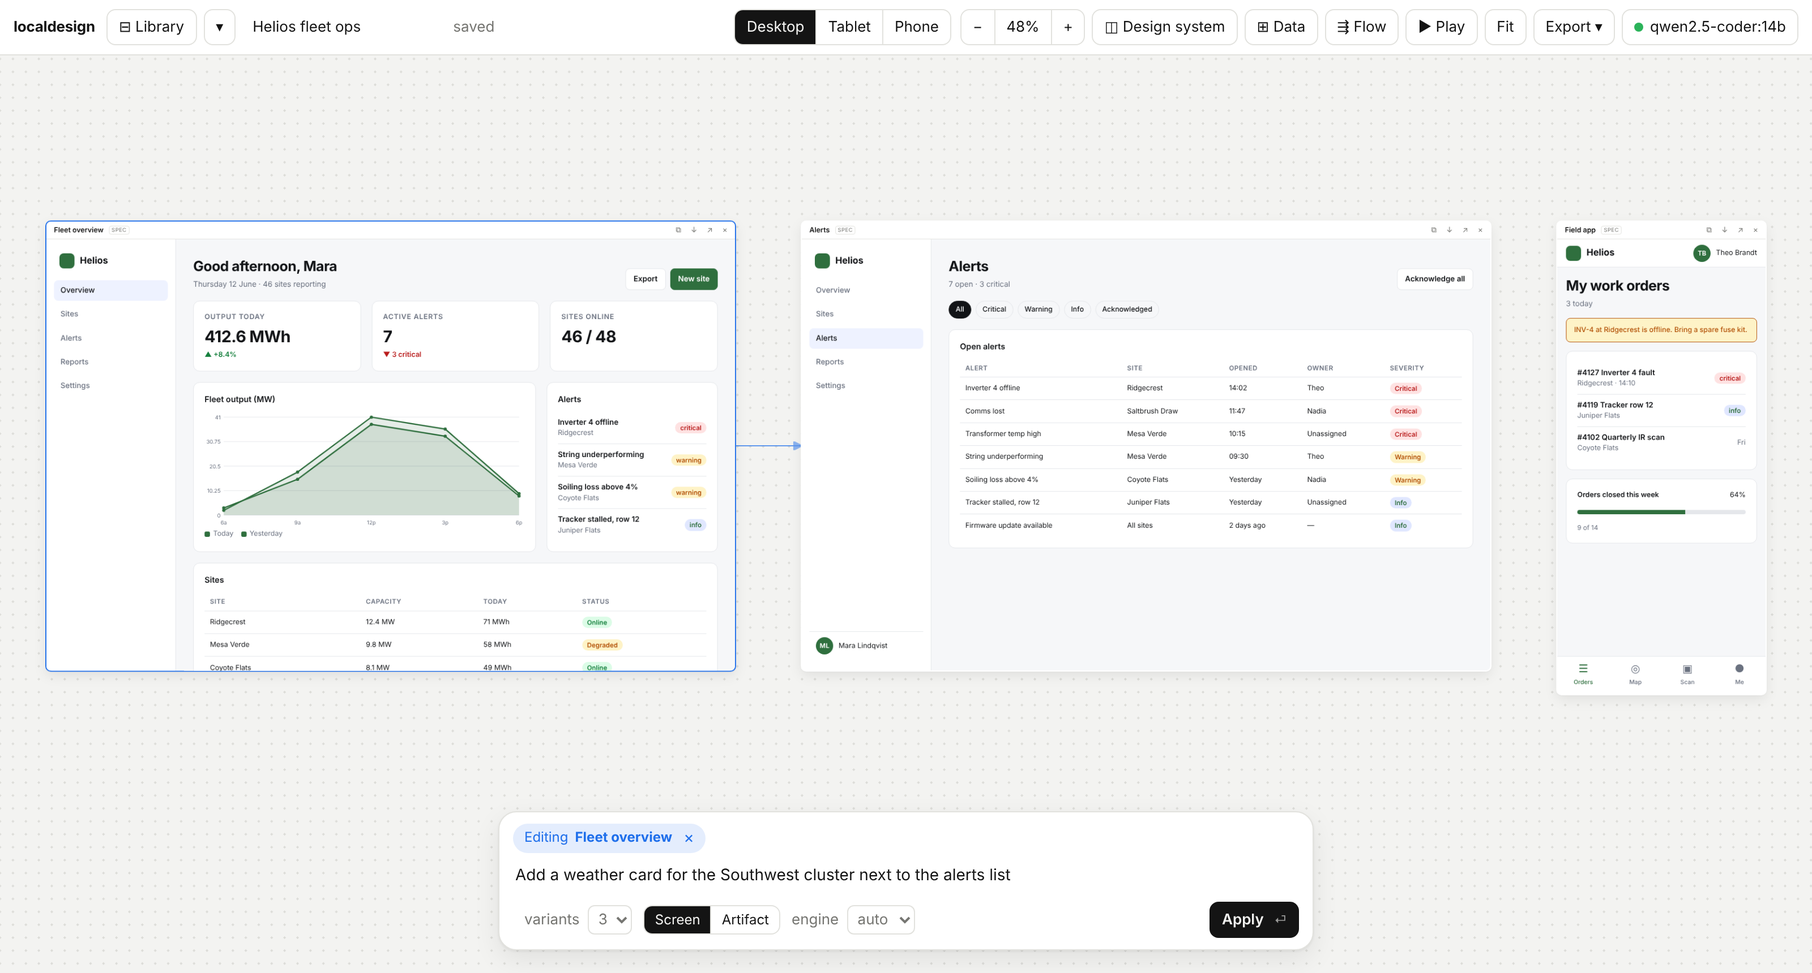
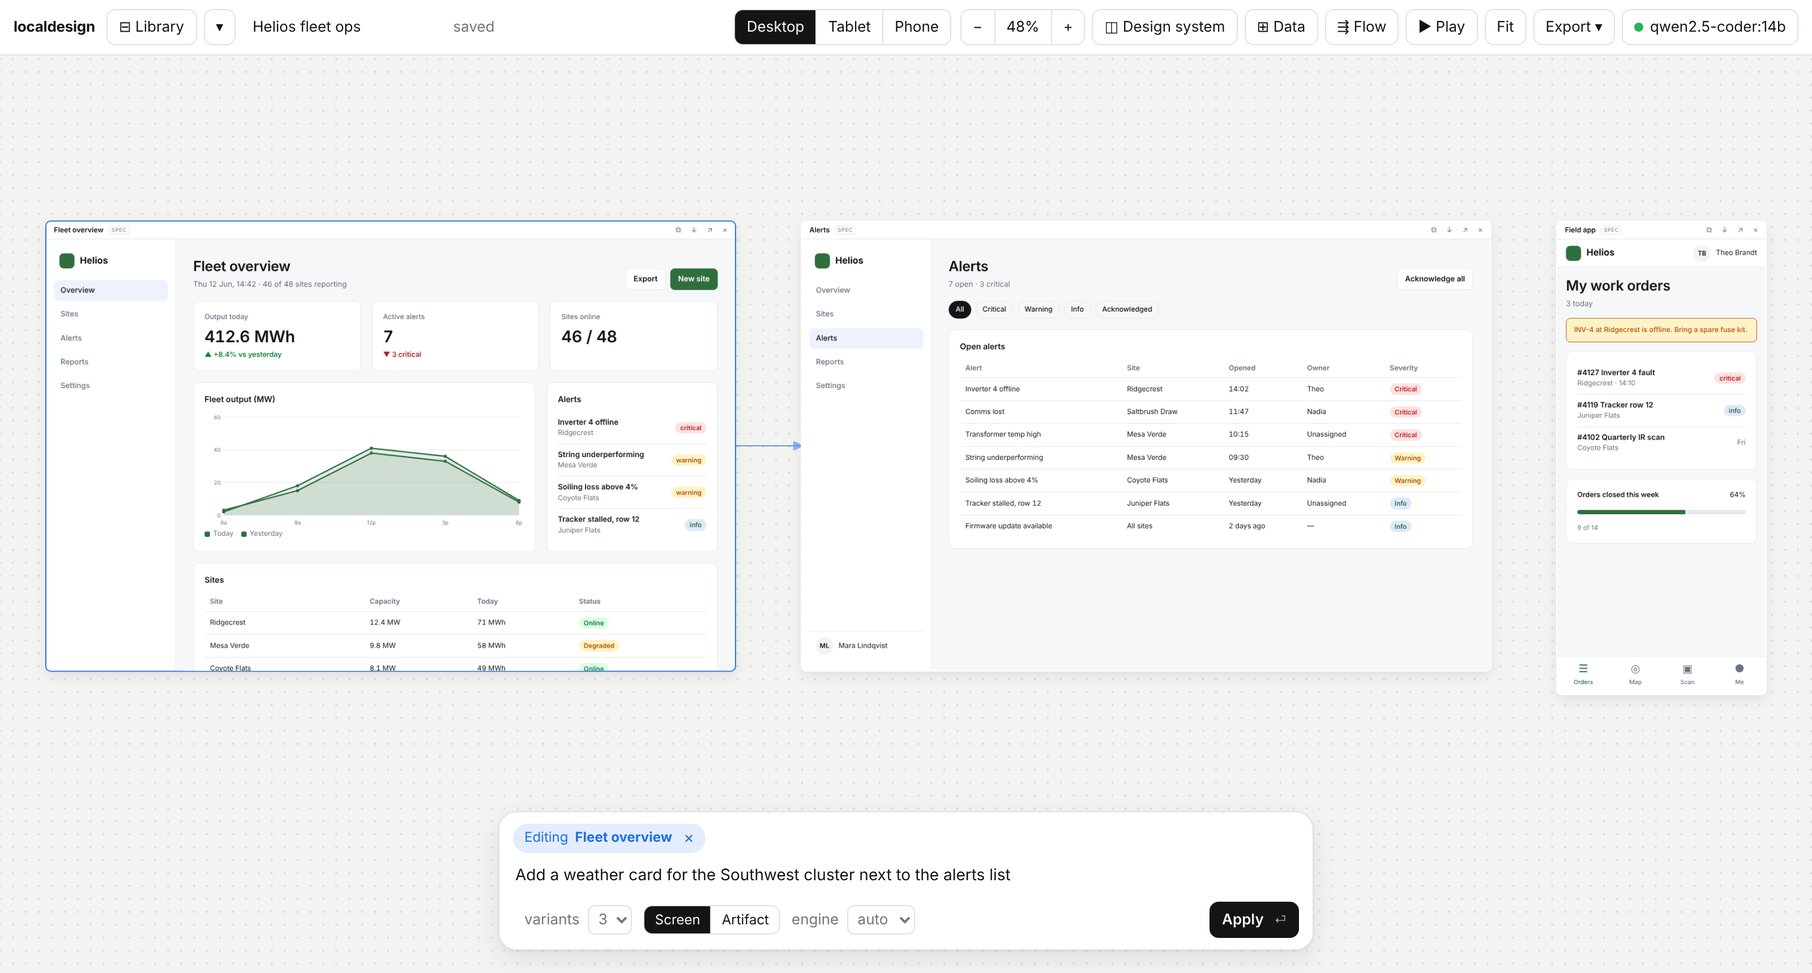
Craft rules against the generated-UI look; calmer spec-renderer defaults; Library screenshot
Prompts: CRAFT_RULES (HTML) and SPEC_CRAFT_RULES (spec) in every
generation prompt, a one-line guard on iterate, a style line for
artifacts; design directions reworded (no gradients/glows).

Renderer: sentence-case stat labels and table headers, lighter heading
weights, flat avatar and image placeholder, tabular numbers, round chart
axis ticks; example spec leads with the page's job instead of a greeting.

README: regenerated app screenshot, new Library screenshot, craft rules
documented; title-click to select a screen.

Claude-Session: https://claude.ai/code/session_01RFXApCoM255tgJVTEK9igr

diff --git a/localdesign/prompts.py b/localdesign/prompts.py
@@ -6,6 +6,27 @@ import re
 
 from .components import NODE_DOCS, EXAMPLE_SPEC
 
+# Shared craft rules: what makes a screen read as "AI-generated", and what to do instead.
+# Kept brace-free because SYSTEM goes through str.format.
+CRAFT_RULES = """Craft rules — the screen must look like a real team shipped it, not like generated UI:
+- No purple/indigo/violet-to-blue gradients, no gradient text, no glassmorphism, no glows, no decorative blobs or noise. Flat surfaces; at most one subtle gradient on the whole page, and only if the brand calls for it.
+- One accent colour, used sparingly (primary action, active nav item, selected state, one key data series). Everything else is neutrals. Status colours (red/amber/green) only for actual status.
+- Do not wrap every section in an identical rounded, shadowed card. Mix treatments: some content sits directly on the page with a heading and a divider; cards only where grouping helps. Never put cards inside cards. Shadows light or none; radius modest (4–10px) and consistent.
+- No emoji as icons. Use simple, consistent inline SVG line icons (one stroke width, 16–20px) or no icon at all. No ✨, 🚀, 👋. Not every list item or heading needs an icon.
+- No row of three identical icon + title + blurb feature cards; no coloured left-border accent cards; no badges or pills on everything.
+- Labels in sentence case. Avoid tiny uppercase letter-spaced labels except for at most one deliberate eyebrow. No exclamation marks.
+- Copy is plain and specific, the way the product's own team would write it: "Export CSV", "3 invoices overdue", not "Unlock insights", "Seamless", "Elevate", "Supercharge", "Effortlessly". No welcome greetings ("Good morning, Alex 👋") unless the brief asks for one; lead with the page's job.
+- Data looks real: uneven numbers (1,284 not 1,000; 97.3% not 99.9%), plausible dates, varied names (not John Doe / Jane Smith / Acme), a few rows that are empty, long or in an error state. Right-align numeric columns and use tabular figures (font-variant-numeric: tabular-nums).
+- Hierarchy from size, weight and spacing, not colour. Two or three type sizes per screen, weights 400/500/600 (avoid 800–900). Left-align by default; centre only short, standalone content.
+- Density fits the job: operational tools are compact and information-dense; don't pad a dashboard like a landing page. Align everything to one spacing scale (4/8px) and one grid.
+- Include the unglamorous parts real products have: filters, sort, pagination or "Show 20 more", empty and loading states where relevant, secondary actions, timestamps, owners."""
+
+SPEC_CRAFT_RULES = """Craft rules — make it look like a real product, not generated UI:
+- Plain, specific copy ("Export CSV", "3 invoices overdue"). No hype words (unlock, seamless, elevate, supercharge), no exclamation marks, no emoji, no welcome greetings; the heading says what the page is.
+- Realistic, uneven numbers (1,284; 97.3%), varied real-sounding names (not John Doe / Acme), dates and timestamps; include one or two rows in a warning or empty state.
+- Fewer, better sections: no filler feature cards, no badge on every item. Use badges only for real status.
+- One primary action per screen; other actions secondary. Pick a calm primary colour (not purple/indigo by default) and keep density "compact" for data-heavy tools."""
+
 SYSTEM = """You are a senior product designer who designs by writing HTML. You produce finished, high-craft UI screens as a single self-contained HTML document.
 
 Output rules (strict):
@@ -17,15 +38,17 @@ Output rules (strict):
 - Use a coherent design system: a limited palette defined as CSS variables on :root, one or two font stacks (system-ui is fine), consistent spacing scale and radii, clear type hierarchy, generous whitespace.
 - Interactive states are static (no JS needed), but you may add small amounts of inline JS for tabs/toggles if it helps the demo.
 - Accessibility basics: sufficient contrast, semantic elements, labels on inputs.
+
+{craft}
 {direction}"""
 
 DIRECTIONS = [
-    "Design direction for this variant: clean and minimal — lots of whitespace, restrained palette, precise typography.",
-    "Design direction for this variant: bold and expressive — strong color, large type, confident hierarchy.",
-    "Design direction for this variant: warm and friendly — soft shapes, rounded corners, approachable tone.",
-    "Design direction for this variant: dense and data-rich — compact spacing, tables/cards, dashboard feel.",
-    "Design direction for this variant: editorial — magazine-like layout, serif headings, strong grid.",
-    "Design direction for this variant: dark mode — deep background, luminous accents, high contrast.",
+    "Design direction for this variant: clean and minimal — lots of whitespace, a neutral palette with one accent, precise typography, almost no shadows.",
+    "Design direction for this variant: bold — one strong brand colour used in large, confident blocks (not gradients), large type, clear hierarchy.",
+    "Design direction for this variant: warm and friendly — warm neutrals, softer corners, approachable plain-spoken copy; still no emoji or gradients.",
+    "Design direction for this variant: dense and data-rich — compact spacing, tables over cards, tabular numbers, the feel of a tool used eight hours a day.",
+    "Design direction for this variant: editorial — magazine-like layout, serif headings, strong grid, rules and whitespace instead of cards.",
+    "Design direction for this variant: dark mode — near-black neutral background (not navy or purple), restrained accent, high contrast text, no glows.",
 ]
 
 ITERATE = """Here is the current screen HTML:
@@ -36,7 +59,7 @@ ITERATE = """Here is the current screen HTML:
 
 Apply this change: {instruction}
 
-Keep everything else the same (same design system, same content) unless the change requires otherwise. Return the complete updated HTML document only."""
+Keep everything else the same (same design system, same content) unless the change requires otherwise. Do not introduce generated-UI clichés while you are at it: no new gradients, glows, emoji icons, hype copy or extra badges. Return the complete updated HTML document only."""
 
 ELEMENT_ITERATE = """You are editing ONE element inside an existing screen. The page's CSS (variables and relevant rules) is:
 
@@ -58,7 +81,7 @@ CDN_RULE_ALLOWED = ". Exception: you MAY load Tailwind via <script src=\"https:/
 
 
 def system_prompt(width: int, direction: str | None, allow_cdn: bool) -> str:
-    return SYSTEM.format(width=width, direction=direction or "", cdn_rule=CDN_RULE_ALLOWED if allow_cdn else "")
+    return SYSTEM.format(width=width, direction=direction or "", cdn_rule=CDN_RULE_ALLOWED if allow_cdn else "", craft=CRAFT_RULES)
 
 
 def generate_user_prompt(brief: str, context: str | None, verb: str | None = None) -> str:
@@ -112,6 +135,8 @@ Output rules (strict):
 - Use realistic, specific content: real-sounding names, numbers, dates, copy. Never "Lorem ipsum" or placeholder text.
 - Aim for 4-8 sections that together make a complete, believable screen. Use grid/split to put things side by side on wide screens.
 - Viewport is {width}px wide{mobile_hint}.
+
+{craft}
 {direction}
 {nodes}
 
@@ -129,7 +154,7 @@ Return the complete updated spec as one JSON object only. Keep everything else t
 def spec_system_prompt(width: int, direction: str | None) -> str:
     mobile = ", a phone: prefer layout \"mobile\", single-column sections and a tabbar" if width <= 480 else ""
     return (SPEC_SYSTEM.replace("{width}", str(width)).replace("{mobile_hint}", mobile)
-            .replace("{direction}", direction or "").replace("{nodes}", NODE_DOCS)
+            .replace("{craft}", SPEC_CRAFT_RULES).replace("{direction}", direction or "").replace("{nodes}", NODE_DOCS)
             .replace("{example}", json.dumps(EXAMPLE_SPEC, separators=(",", ":"))))
 
 
@@ -235,6 +260,7 @@ Output rules (strict):
 - It must actually work: wire up all interactions in plain JavaScript (no frameworks), handle edge cases, no console errors. Use <canvas> or inline SVG for graphics. State lives in JS variables; persist to localStorage only if useful.
 - Make it feel finished: clear layout for a {width}px-wide viewport, sensible defaults and sample data so it is useful immediately, keyboard support where natural, responsive enough to not break when narrower.
 - Keep it reasonably compact; prefer clarity over cleverness. No comments longer than a line.
+- Visual style: flat surfaces, one accent colour, neutral greys, sentence-case labels, plain copy. No purple-to-blue gradients, gradient text, glows, glassmorphism or emoji icons.
 """
 
 

diff --git a/localdesign/components.py b/localdesign/components.py
@@ -62,8 +62,8 @@ EXAMPLE_SPEC = {
     "layout": "sidebar",
     "nav": {"brand": "Helios", "items": ["Overview", "Sites", "Alerts", "Reports"], "active": "Overview", "user": "Mara Lindqvist"},
     "sections": [
-        {"type": "heading", "text": "Good afternoon, Mara", "sub": "Thursday 12 June · 46 sites reporting", "actions": [{"label": "Export", "primary": False}, {"label": "New site", "primary": True}]},
-        {"type": "stats", "items": [{"label": "Output today", "value": "412.6 MWh", "delta": "+8.4%", "trend": "up"}, {"label": "Active alerts", "value": "7", "delta": "3 critical", "trend": "down"}, {"label": "Sites online", "value": "46 / 48"}]},
+        {"type": "heading", "text": "Fleet overview", "sub": "Thu 12 Jun, 14:42 · 46 of 48 sites reporting", "actions": [{"label": "Export", "primary": False}, {"label": "New site", "primary": True}]},
+        {"type": "stats", "items": [{"label": "Output today", "value": "412.6 MWh", "delta": "+8.4% vs yesterday", "trend": "up"}, {"label": "Active alerts", "value": "7", "delta": "3 critical", "trend": "down"}, {"label": "Sites online", "value": "46 / 48"}]},
         {"type": "split", "ratio": "2:1", "children": [
             {"type": "chart", "kind": "area", "title": "Fleet output (MW)", "labels": ["6a", "9a", "12p", "3p", "6p"], "series": [{"name": "Today", "values": [2, 18, 41, 36, 9]}, {"name": "Yesterday", "values": [3, 15, 38, 33, 8]}]},
             {"type": "list", "title": "Alerts", "items": [{"title": "Inverter 4 offline", "sub": "Ridgecrest", "badge": "critical"}, {"title": "String underperforming", "sub": "Mesa Verde", "badge": "warning"}]}
@@ -96,9 +96,9 @@ a{color:inherit;text-decoration:none}
 .ld-main{padding:var(--pad);display:flex;flex-direction:column;gap:var(--gap);max-width:100%}
 .centered .ld-main{max-width:720px;margin:0 auto;width:100%}
 .mobile .ld-main{padding:16px;padding-bottom:84px;gap:16px}
-.ld-av{width:32px;height:32px;border-radius:50%;background:linear-gradient(135deg,var(--primary),var(--accent));color:#fff;display:inline-flex;align-items:center;justify-content:center;font-size:12px;font-weight:600;flex:none}
+.ld-av{width:32px;height:32px;border-radius:50%;background:var(--chip);color:var(--text);display:inline-flex;align-items:center;justify-content:center;font-size:12px;font-weight:600;flex:none}
 .ld-head{display:flex;align-items:flex-end;justify-content:space-between;gap:16px}
-.ld-head h1{font-size:var(--fs-h1);margin:0;letter-spacing:-.02em;font-weight:700}
+.ld-head h1{font-size:var(--fs-h1);margin:0;letter-spacing:-.01em;font-weight:600}
 .ld-head p{margin:4px 0 0;color:var(--muted)}
 .ld-actions{display:flex;gap:8px;flex-wrap:wrap}
 .ld-btn{display:inline-flex;align-items:center;gap:6px;padding:9px 14px;border-radius:var(--r-sm);border:1px solid var(--line);background:var(--surface);font-weight:600;font-size:var(--fs);cursor:pointer;color:var(--text)}
@@ -106,16 +106,16 @@ a{color:inherit;text-decoration:none}
 .ld-btn.sm{padding:6px 10px;font-size:var(--fs-sm)}
 .ld-stats{display:grid;grid-template-columns:repeat(auto-fit,minmax(180px,1fr));gap:var(--gap)}
 .ld-stat{background:var(--surface);border:1px solid var(--line);border-radius:var(--r);padding:var(--card-pad)}
-.ld-stat .l{color:var(--muted);font-size:var(--fs-sm);text-transform:uppercase;letter-spacing:.06em;font-weight:600}
-.ld-stat .v{font-size:var(--fs-stat);font-weight:700;letter-spacing:-.02em;margin:6px 0 2px}
+.ld-stat .l{color:var(--muted);font-size:var(--fs-sm);font-weight:500}
+.ld-stat .v{font-size:var(--fs-stat);font-weight:600;letter-spacing:-.01em;margin:6px 0 2px;font-variant-numeric:tabular-nums}
 .ld-stat .d{font-size:var(--fs-sm);font-weight:600}.ld-stat .d.up{color:var(--ok)}.ld-stat .d.down{color:var(--bad)}
 .ld-grid{display:grid;gap:var(--gap)}
 .ld-card{background:var(--surface);border:1px solid var(--line);border-radius:var(--r);padding:var(--card-pad);display:flex;flex-direction:column;gap:12px}
 .ld-card>h3{margin:0;font-size:var(--fs-h3);font-weight:600}.ld-card .sub{color:var(--muted);margin:-8px 0 0;font-size:var(--fs-sm)}
 .ld-card .body{color:var(--text)}
 .ld-text.sm{font-size:var(--fs-sm)}.ld-text.lg{font-size:var(--fs-lg)}.ld-text.muted{color:var(--muted)}
-table.ld-table{width:100%;border-collapse:collapse;font-size:var(--fs-sm)}
-.ld-table th{text-align:left;color:var(--muted);font-weight:600;padding:8px 10px;border-bottom:1px solid var(--line);font-size:12px;text-transform:uppercase;letter-spacing:.05em}
+table.ld-table{width:100%;border-collapse:collapse;font-size:var(--fs-sm);font-variant-numeric:tabular-nums}
+.ld-table th{text-align:left;color:var(--muted);font-weight:600;padding:8px 10px;border-bottom:1px solid var(--line);font-size:var(--fs-sm)}
 .ld-table td{padding:10px;border-bottom:1px solid var(--line)}
 .ld-table tr:last-child td{border-bottom:0}
 .ld-badge{display:inline-block;padding:2px 9px;border-radius:999px;font-size:12px;font-weight:600;background:var(--chip);color:var(--text)}
@@ -154,11 +154,10 @@ table.ld-table{width:100%;border-collapse:collapse;font-size:var(--fs-sm)}
 .ld-tier li::before{content:"✓";color:var(--ok);margin-right:8px;font-weight:700}
 .ld-hero{display:grid;grid-template-columns:1fr 1fr;gap:40px;align-items:center;padding:40px 0}
 .ld-hero.center{grid-template-columns:1fr;text-align:center;max-width:720px;margin:0 auto}
-.ld-hero h1{font-size:var(--fs-hero);line-height:1.08;letter-spacing:-.03em;margin:0 0 16px;font-weight:800}
+.ld-hero h1{font-size:var(--fs-hero);line-height:1.08;letter-spacing:-.03em;margin:0 0 16px;font-weight:700}
 .ld-hero p{font-size:var(--fs-lg);color:var(--muted);margin:0 0 24px}
 .ld-hero .ld-actions{justify-content:inherit}.ld-hero.center .ld-actions{justify-content:center}
-.ld-img{background:linear-gradient(135deg,var(--chip),var(--line));border-radius:var(--r);display:flex;align-items:center;justify-content:center;color:var(--muted);font-size:var(--fs-sm);font-weight:500;position:relative;overflow:hidden}
-.ld-img::after{content:"";position:absolute;inset:0;background:radial-gradient(circle at 30% 30%,rgba(255,255,255,.5),transparent 60%)}
+.ld-img{background:var(--chip);border-radius:var(--r);display:flex;align-items:center;justify-content:center;color:var(--muted);font-size:var(--fs-sm);font-weight:500;position:relative;overflow:hidden}
 .ld-feat{display:grid;gap:var(--gap)}
 .ld-feat .f{display:flex;flex-direction:column;gap:8px}
 .ld-feat .f .ic{width:40px;height:40px;border-radius:var(--r-sm);background:var(--info-bg);color:var(--primary);display:flex;align-items:center;justify-content:center;font-size:18px}
@@ -329,15 +328,21 @@ def _chart_svg(n: dict) -> str:
         return f'<div class="ld-chart" style="display:flex;gap:24px;align-items:center"><svg viewBox="0 0 220 220" style="max-width:220px">{"".join(parts)}<text x="{cx}" y="{cy + 6}" text-anchor="middle" font-size="22" font-weight="700" fill="var(--text)">{e(n.get("center", int(total)))}</text></svg><div class="ld-legend" style="flex-direction:column;gap:8px">{legend}</div></div>'
     allv = [v for s in series for v in _nums(s.get("values"))] or [0, 1]
     lo, hi = min(0.0, min(allv)), max(allv) or 1.0
+    # round axis ticks (0, 10, 20, 30 … not 10.25, 20.5, 30.75)
+    raw = (hi - lo) / 4 or 1.0
+    mag = 10 ** math.floor(math.log10(raw))
+    step = next(m * mag for m in (1, 2, 2.5, 5, 10) if m * mag >= raw)
+    lo, hi = math.floor(lo / step) * step, math.ceil(hi / step) * step
+    nticks = max(1, round((hi - lo) / step))
     pad_l, pad_r, pad_t, pad_b = 36, 10, 10, 26
     iw, ih = W - pad_l - pad_r, H - pad_t - pad_b
     npts = max(len(_nums(s.get("values"))) for s in series) if series else 2
     gx = lambda i: pad_l + (i / max(1, npts - 1)) * iw
     gy = lambda v: pad_t + ih - ((v - lo) / (hi - lo or 1)) * ih
     out = []
-    for g in range(5):
-        y = pad_t + ih * g / 4
-        val = hi - (hi - lo) * g / 4
+    for g in range(nticks + 1):
+        y = pad_t + ih * g / nticks
+        val = round(hi - step * g, 6)
         out.append(f'<line x1="{pad_l}" x2="{W - pad_r}" y1="{y:.1f}" y2="{y:.1f}" stroke="var(--line)"/><text x="{pad_l - 6}" y="{y + 4:.1f}" text-anchor="end" font-size="10" fill="var(--muted)">{val:g}</text>')
     if kind == "bar":
         nser = max(1, len(series))

diff --git a/tests/test_components.py b/tests/test_components.py
@@ -6,7 +6,7 @@ from localdesign import components as C
 def test_example_spec_renders_full_document():
     html = C.render(C.EXAMPLE_SPEC, 1280)
     assert html.startswith("<!DOCTYPE html>") and html.endswith("</html>")
-    assert "Good afternoon, Mara" in html and "412.6 MWh" in html
+    assert "Fleet overview" in html and "412.6 MWh" in html
     assert "<svg" in html                       # chart rendered as inline SVG
     assert "ld-badge" in html                    # badge_col applied
 

diff --git a/README.md b/README.md
@@ -64,6 +64,9 @@ Pick Open Design or Dyad if you can run a frontier agent. Pick localdesign if yo
 **Flows.** A one-line checkout description → four planned screens, generated with navigation links, arrows on the canvas, ▶ Play to click through.
 ![Four linked checkout screens with flow arrows](docs/flow.png)
 
+**Component library.** ⊟ Library (top left) opens the palette: built-in components rendered in the current design system, plus your uploaded assets and brand snippets. Drag one onto a screen, or select a screen and click it.
+![Library panel open beside the canvas, showing Heading, Stats, Card, Table, List and chart components](docs/library.png)
+
 **Spec engine.** The model wrote ~1.5 KB of JSON; localdesign rendered it. This is what makes 4–8B local models usable.
 
 <p><img src="docs/spec-desktop.png" width="68%" alt="Spec-engine desktop dashboard"> <img src="docs/spec-phone.png" width="21%" alt="Spec-engine phone screen"></p>
@@ -98,13 +101,14 @@ Config persists in `~/.localdesign/config.json` (keys stored in plaintext there 
 ## Using it
 
 - **Generate**: describe a screen → N variants (each with a different design direction) stream onto the canvas.
-- **Iterate**: click a screen, type a change → new version in place (`v3` badge cycles versions).
+- **Iterate**: click a screen's title, type a change → new version in place (`v3` badge cycles versions).
 - **Edit**: click inside a screen to select an element. Toolbar: text, style, ↑↓ reorder, duplicate, link, **✦ AI** (type a change for that element), delete. Double-click text to edit. Drag an element onto another screen to copy it there. ⌘Z undoes.
 - **Library** (⊟): drag built-in components, your uploaded assets (logo, icons, product shots) or brand snippets onto a screen. Assets live in `~/.localdesign/assets/<project>/` and are served at `/assets/…`; HTML exports inline them.
 - **Artifact** toggle (prompt bar): build an interactive app/tool/chart/game/document instead of a mockup. Iterate, edit and export it like any screen.
 - **Desktop / Tablet / Phone**: sets the width for new screens; with a screen selected it resizes that screen (spec screens re-render in the phone layout; HTML screens reflow — ↻ regenerates at the new width).
 - **Design system** (◫): paste `:root{…}` / tailwind config / tokens JSON / an HTML page, a **DESIGN.md**, or **fetch a running site** (page + its same-origin stylesheets → tokens); adjust tokens; add component snippets and guidelines. Spec screens re-render instantly with the new tokens.
 - **Data** (⊞): paste JSON or CSV as a named source; mention it in briefs.
+- **Craft rules**: every generation prompt carries rules against the generated-UI look (no purple gradients, glows, emoji icons, card-in-card, hype copy, round fake numbers, uppercase micro-labels everywhere) and in favour of what shipped products do (one accent, neutrals, sentence case, tabular numbers, real states). They live in `prompts.CRAFT_RULES` / `SPEC_CRAFT_RULES`; add house rules on top under ◫ Design system → Guidelines.
 - **Flow** (⇶): describe a journey or paste a PRD → edit the planned screen list → generate all with links. Arrows show navigation; **▶ Play** runs the prototype.
 - **Export ▾ → Implementation pack**: drop the unzipped folder into a repo as `design/` and tell your agent *"Read design/AGENTS.md and follow it."* Small-model prompts (one section at a time) are in `IMPLEMENTATION_PLAN.md`; when it says it is done, *"Run design/VERIFY.md and report pass/fail per line."* Options: per-screen PNG screenshots (needs Chrome, Chromium or Edge on the machine — `LD_CHROME=/path/to/chrome` to point at one), a model-written overview at the top of `ARCHITECTURE.md` (the only part of the pack that calls the model), and writing straight into a folder (e.g. `<repo>/design`) instead of downloading a zip.
 - **Export ▾**: project JSON, design spec (.md), **DESIGN.md**, HTML, React (.jsx + .css, deterministic), React + Tailwind (AI), all screens at once.

diff --git a/CHANGELOG.md b/CHANGELOG.md
@@ -1,5 +1,18 @@
 # Changelog
 
+## Unreleased
+
+### Less "generated-looking" output
+- Every generation prompt (HTML, spec, iterate, artifact) now carries craft rules: no purple/blue gradients, gradient text,
+  glows or glassmorphism; one accent colour on neutrals; no emoji icons, card-in-card, three-feature-card rows or
+  badge-on-everything; sentence-case labels; plain specific copy (no "unlock / seamless / elevate", no greetings);
+  realistic uneven numbers and varied names; tabular figures; density that fits the job; real states (empty, error, pagination).
+- Design directions reworded to stop asking for "luminous accents" and strong colour as gradients.
+- Spec renderer: sentence-case stat labels and table headers (no uppercase letter-spacing), weight 600 headings, flat avatars
+  and image placeholders, tabular numbers in stats and tables, chart axes on round steps (0/20/40, not 10.25/20.5).
+  The example spec no longer opens with "Good afternoon, Mara".
+- README: populated screenshot of the app and of the Library panel.
+
 ## 0.3.0 — 2026-10-25
 
 First PyPI release. `pip install localdesign` (or `uv tool install localdesign`), then `lde`.
